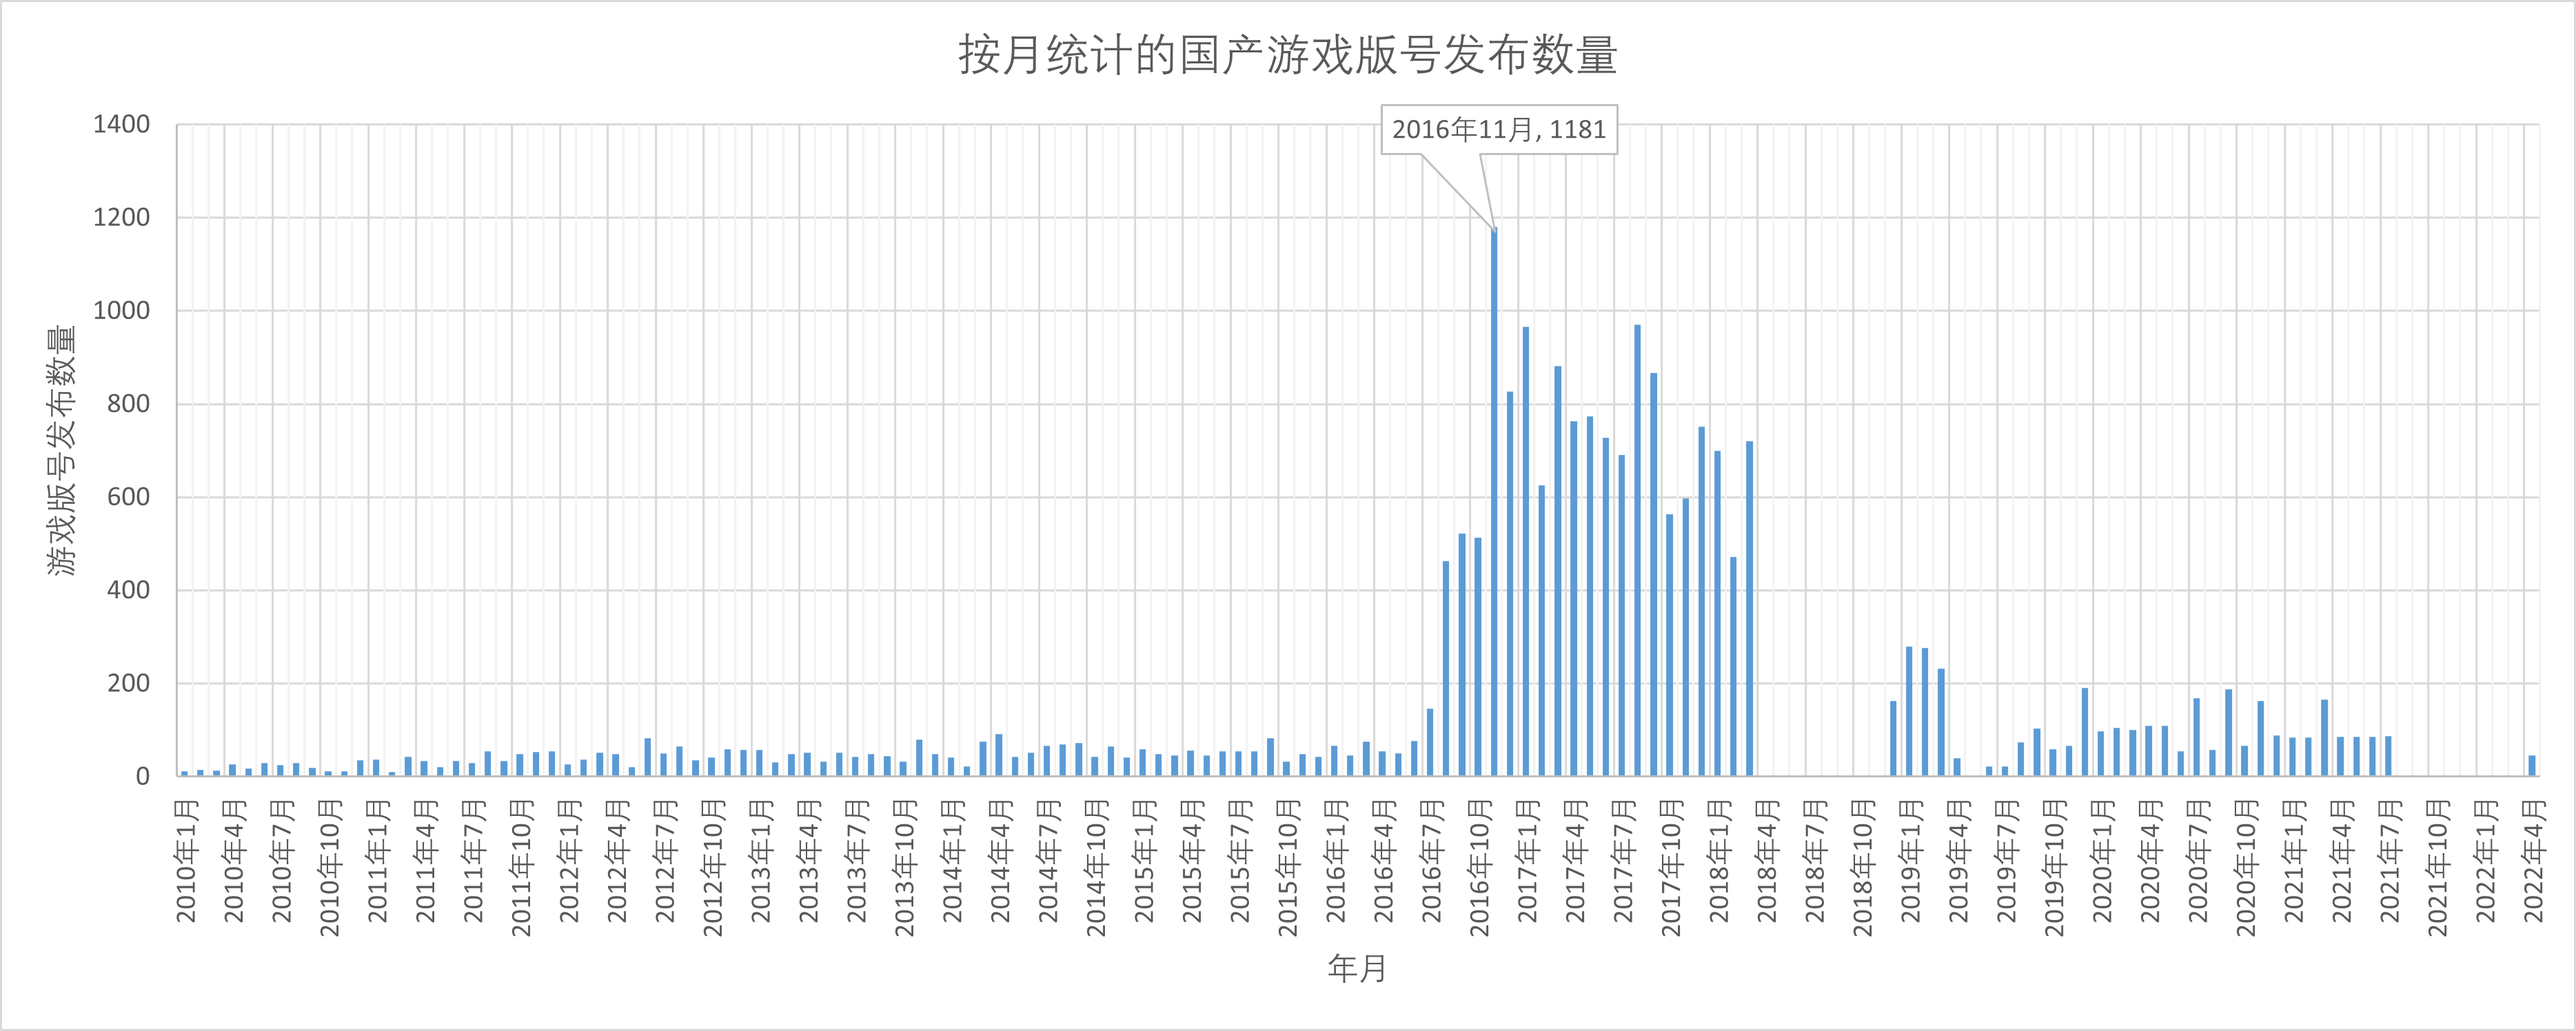
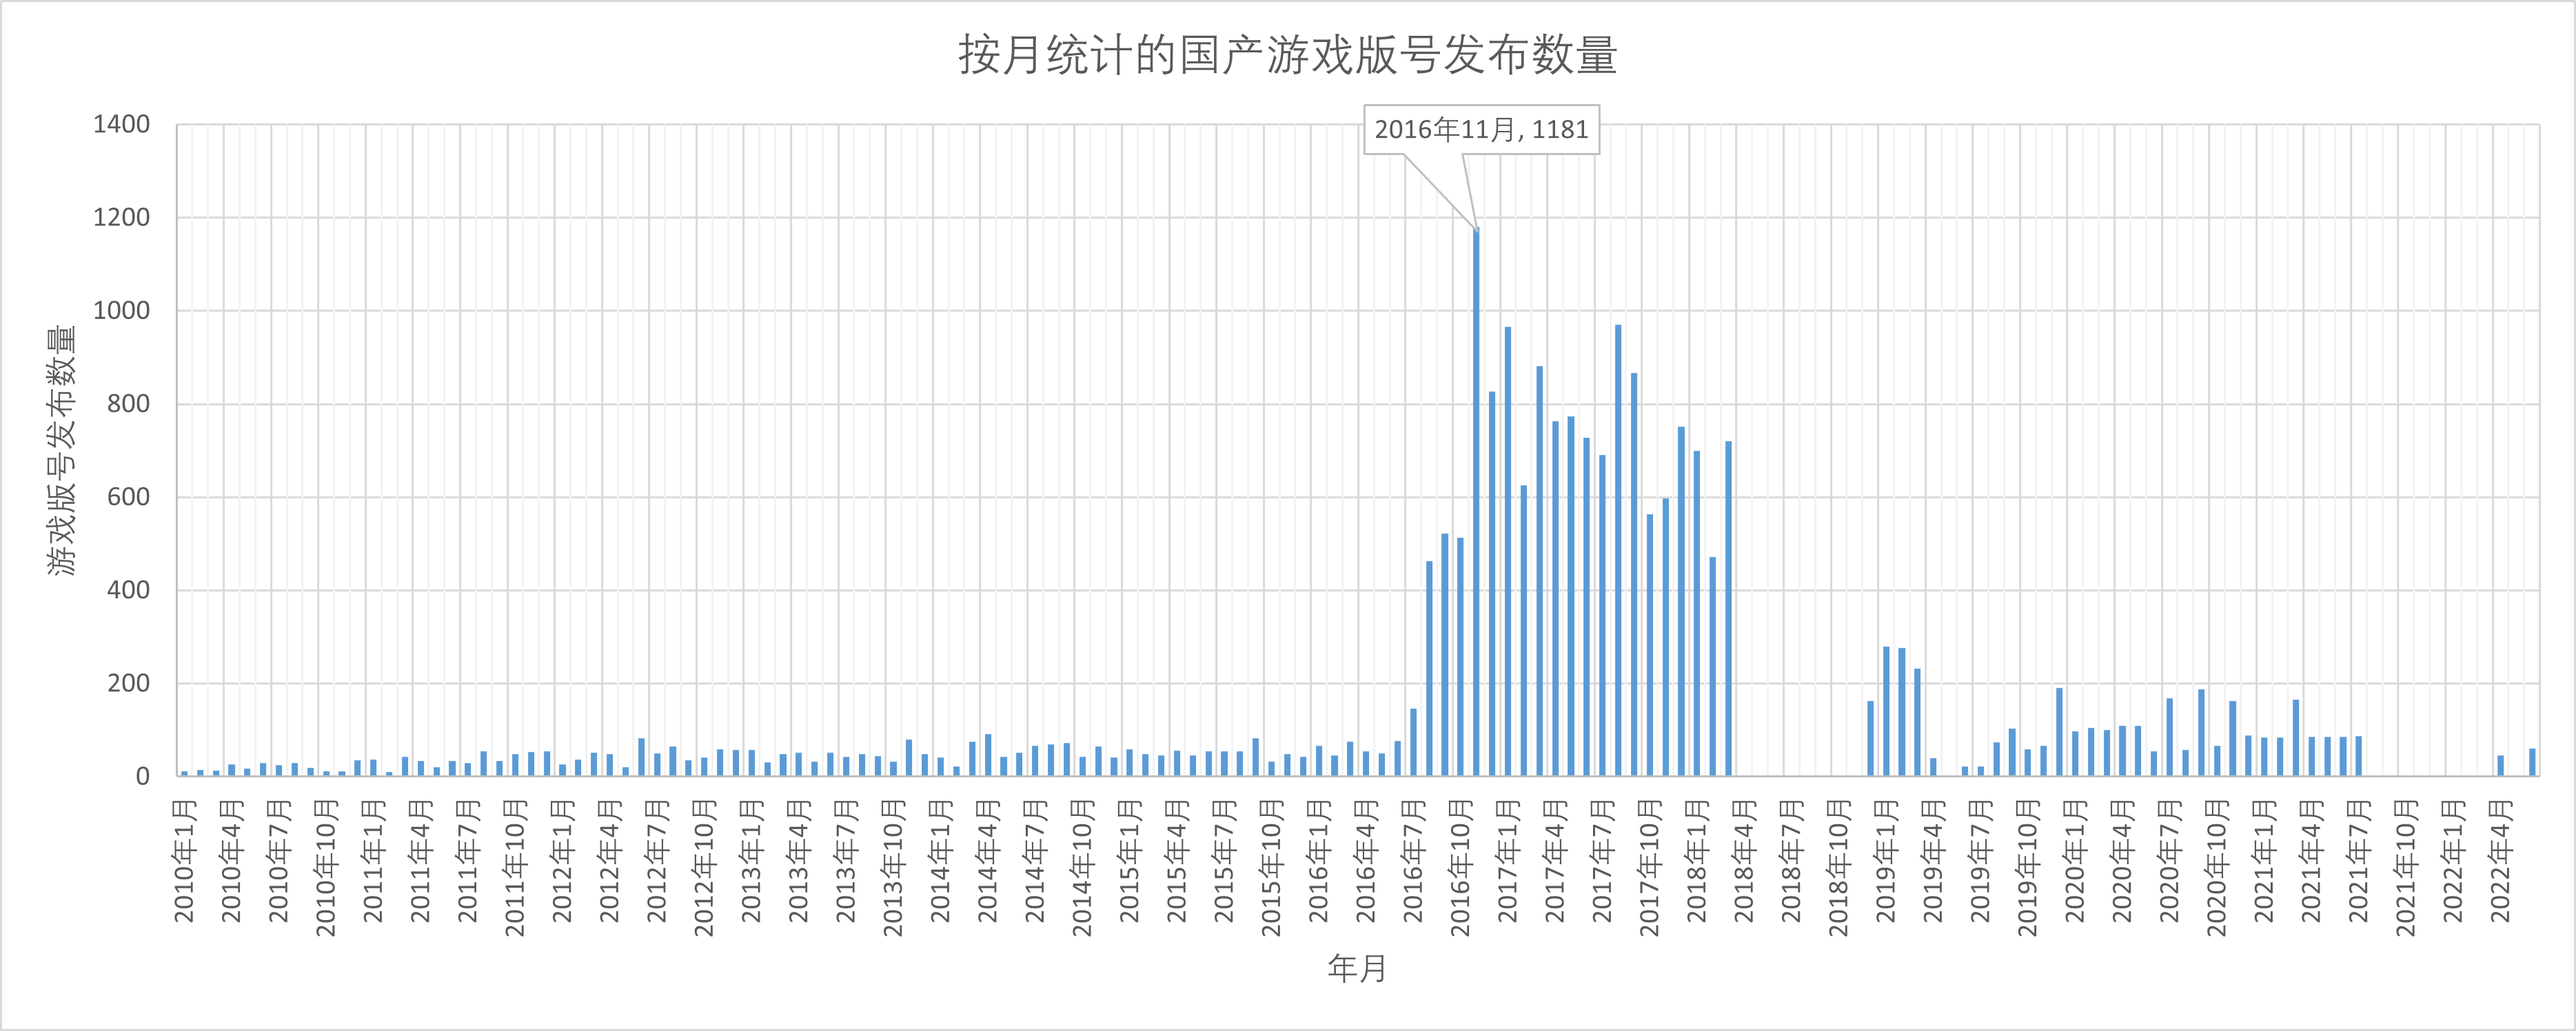
2022年6月版号发放

Changed region(s): [[0.0621, 0.0922, 0.9933, 0.9225], [0.9623, 0.7072, 0.9933, 0.738]]

diff --git a/index.html b/index.html
@@ -34,7 +34,7 @@
         </div>
         <div class="last">
             <h2>上次游戏版号发放日期为：</h2>
-            <h2><a href="https://www.nppa.gov.cn/nppa/contents/320/103799.shtml">2022年4月11日-2022年4月份国产网络游戏审批信息</a></h2>
+            <h2><a href="http://www.nppa.gov.cn/nppa/contents/320/104244.shtml">2022年6月7日-2022年6月份国产网络游戏审批信息</a></h2>
         </div>
         <div class="date-back">
             <h2>已经有</h2>

diff --git a/date_calc.js b/date_calc.js
@@ -8,8 +8,8 @@ var date = new Date();
 function calb() {
 
     y2 = 2022;
-    m2 = 4;
-    d2 = 11;
+    m2 = 6;
+    d2 = 7;
 
 
     y3 = date.getFullYear();
